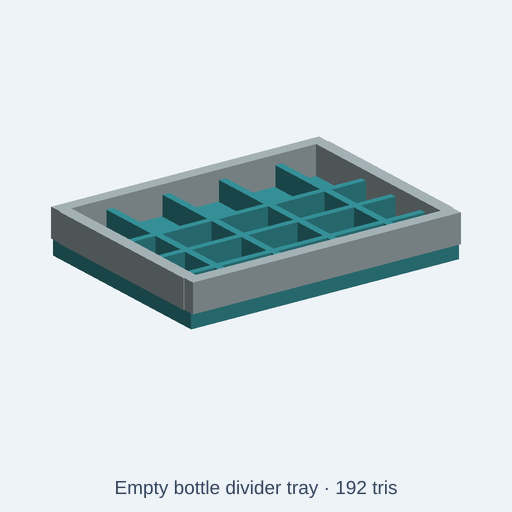
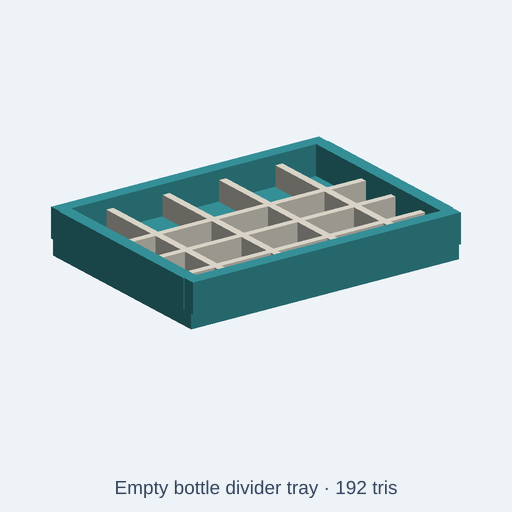
fix(catalog): render the bottle divider tray as one polymer moulding
The empty bottle divider tray is a washable, injection-moulded
returnable-container tray. Its parts were coloured by a name regex:
the floor and dividers matched /tray|divider/ (food-grade polymer),
the feet matched /foot/ (powder-coated steel), and the rims fell
through to stainless steel. The preview showed a stainless rim on
a polymer floor with steel feet, which is not a real tray.

Route the floor, rim and feet to foodPolymer (#3999a1), the one
moulded shell. Give the lift-out divider grid its own dividerPolymer
knob (#e6e1d3, natural HDPE off-white, chosen to stay clear of the
kit's stainless shades). Drop the unused stainlessSteel and
powderCoat knobs; both presets now set the two polymer knobs.

Geometry, part names and the triangle count (192 / 2,200) are
unchanged. The new GLB colour test fails on the old source and
passes after the fix. tests/integration/catalog: 114/114 files,
182/182 tests pass. Quality gate: 2,398/2,402, unchanged (the four
failures are pre-existing standard-components assets).

Preview audit ledger (beverage-bottling-line; no open issue/PR target):
- empty-bottle-divider-tray: rim stainless, feet powder-coated steel
  on a polymer tray -> fixed here.
- rotary-filler: reads as a rotary filler; HMI screen renders as
  teal polymer, not a display; minor, noted.
- sanitary-lobe-pump: stainless head, painted gearbox and motor,
  guarded coupling; no material defect found.
- cap-feed-hopper: materials plausible; box-stack geometry, no caps
[…]

Changed region(s): [[0.0938, 0.25, 0.9062, 0.625]]

diff --git a/tests/integration/catalog/emptyBottleDividerTrayMaterial.test.ts b/tests/integration/catalog/emptyBottleDividerTrayMaterial.test.ts
@@ -1,0 +1,63 @@
+// SPDX-License-Identifier: MIT
+// Copyright (c) 2026 Andrii Shylenko and kernelCAD contributors
+
+import { resolve } from 'node:path';
+import { NodeIO } from '@gltf-transform/core';
+import { beforeAll, describe, expect, it } from 'vitest';
+import { buildCatalogAssetWithGlb } from '../../../src/agent/catalog/buildCatalog';
+import { initOcct } from '../../../src/kernel/backends/occt/occtBackend';
+
+const repoRoot = resolve(import.meta.dirname, '../../..');
+const source = 'catalog/kits/beverage-bottling-line/empty-bottle-divider-tray.kcad.ts';
+
+beforeAll(async () => {
+  await initOcct();
+}, 120_000);
+
+describe('beverage-bottling-line/empty-bottle-divider-tray materials', () => {
+  it('renders the moulded tray shell as food-grade polymer, not stainless or powder-coated steel', async () => {
+    const { asset, glb } = await buildCatalogAssetWithGlb(repoRoot, source);
+
+    expect(asset.stats.triangles).toBeLessThanOrEqual(asset.triangleBudget);
+    expect(asset.params.filter((param) => param.type === 'color').map((param) => param.name)).toEqual([
+      'foodPolymer', 'dividerPolymer',
+    ]);
+    expect(Object.keys(asset.presets)).toEqual(['sanitaryLine', 'legacyPlant']);
+
+    const document = await new NodeIO().readBinary(glb);
+    const nodes = document.getRoot().listNodes();
+    const colorsFor = (name: string) => {
+      const node = nodes.find((candidate) => candidate.getName() === name);
+      return node?.getMesh()?.listPrimitives().flatMap((primitive) => {
+        const vertexColors = primitive.getAttribute('COLOR_0');
+        if (vertexColors !== null) {
+          return Array.from({ length: vertexColors.getCount() }, (_, index) => {
+            const color = vertexColors.getElement(index, []);
+            return color.slice(0, 3).map((channel) =>
+              channel <= 0.0031308 ? 12.92 * channel : 1.055 * channel ** (1 / 2.4) - 0.055,
+            );
+          });
+        }
+        const material = primitive.getMaterial();
+        return material === null ? [] : [material.getBaseColorFactor().slice(0, 3)];
+      }) ?? [];
+    };
+    const matches = (hex: string) => {
+      const expected = [1, 3, 5].map((shift) => parseInt(hex.slice(shift, shift + 2), 16) / 255);
+      return (color: number[]) => expected.every((channel, index) =>
+        Math.abs(channel - color[index]!) < 0.015,
+      );
+    };
+
+    for (const name of ['tray-floor', 'rim-front', 'rim-back', 'rim-left', 'rim-right', 'foot-0', 'foot-3']) {
+      const colors = colorsFor(name);
+      expect(colors.length, name).toBeGreaterThan(0);
+      expect(colors.every(matches('#3999a1')), `${name} should be the food-grade polymer shell`).toBe(true);
+    }
+    for (const name of ['divider-x-0', 'divider-y-2']) {
+      const colors = colorsFor(name);
+      expect(colors.length, name).toBeGreaterThan(0);
+      expect(colors.every(matches('#e6e1d3')), `${name} should be the divider insert polymer`).toBe(true);
+    }
+  }, 120_000);
+});

diff --git a/catalog/kits/beverage-bottling-line/empty-bottle-divider-tray.kcad.ts b/catalog/kits/beverage-bottling-line/empty-bottle-divider-tray.kcad.ts
@@ -1,11 +1,13 @@
 // SPDX-License-Identifier: CC0-1.0
 // quality-promotion: beverage-bottling-line 2026-11-05
 // Empty bottle divider tray: washable compartment tray spaces glass bottles for returnable-container handling.
+// The floor, rim and feet are one injection-moulded polymer shell; the divider grid is a separate
+// polymer insert that lifts out for washing. Nothing on it is steel.
 meta({
   name: "empty-bottle-divider-tray",
   license: 'CC0-1.0',
   title: "Empty bottle divider tray",
-  description: "Washable compartment tray spaces glass bottles for returnable-container handling. Knobs: overall scale and color controls for stainless steel, powder-coated steel, and food-grade polymer.",
+  description: "Washable compartment tray spaces glass bottles for returnable-container handling. Knobs: overall scale and color controls for the food-grade polymer tray shell and the divider insert polymer.",
   tags: ['beverage bottling', 'packaging line', 'food manufacturing', 'low poly', 'CC0'],
   kit: 'beverage-bottling-line',
   category: 'item',
@@ -15,30 +17,25 @@ meta({
 });
 
 const scale = param('scale', 1, { label: 'Overall scale', min: 0.65, max: 1.3, step: 0.05 });
-const stainlessSteel = param('stainlessSteel', '#aebdc1', { label: 'Stainless steel' });
-const powderCoat = param('powderCoat', '#397e91', { label: 'Powder-coated steel' });
 const foodPolymer = param('foodPolymer', '#3999a1', { label: 'Food-grade polymer' });
+const dividerPolymer = param('dividerPolymer', '#e6e1d3', { label: 'Divider insert polymer' });
 
 presets({
   sanitaryLine: {
-    stainlessSteel: '#d2dfe1',
-    powderCoat: '#4b95a4',
     foodPolymer: '#2c828c',
+    dividerPolymer: '#f1ede2',
   },
   legacyPlant: {
-    stainlessSteel: '#858f91',
-    powderCoat: '#315b70',
     foodPolymer: '#286c75',
+    dividerPolymer: '#b9b2a0',
   },
 });
 const boxPart = (x:number,y:number,z:number,w:number,d:number,h:number) => box(w,d,h,true).translate(x,y,z+h/2).scale(scale);
 
 const p = assembly("empty-bottle-divider-tray");
 const finishPart = (name: string, shape: ReturnType<typeof boxPart>) => {
-  const component = name.toLowerCase();
-  if (/belt|guide|film|web|label|pad|seal|grip|cap|bottle|liner|tray|hose|cleat|divider|wheel|wrap|tape|suction|sleeve/i.test(component)) return shape.color(foodPolymer);
-  if (/base|leg|foot|frame|support|stand|control|housing|cabinet|motor|drive|beam|panel|hood|skid|mount|platform|guard|rail|post|lift|jacket/i.test(component)) return shape.color(powderCoat);
-  return shape.color(stainlessSteel);
+  if (/divider/i.test(name)) return shape.color(dividerPolymer);
+  return shape.color(foodPolymer);
 };
 p.part("tray-floor", finishPart("tray-floor", boxPart(0, 0, 20, 760, 560, 40)));
 p.part("rim-front", finishPart("rim-front", boxPart(0, -270, 60, 760, 35, 80)));
